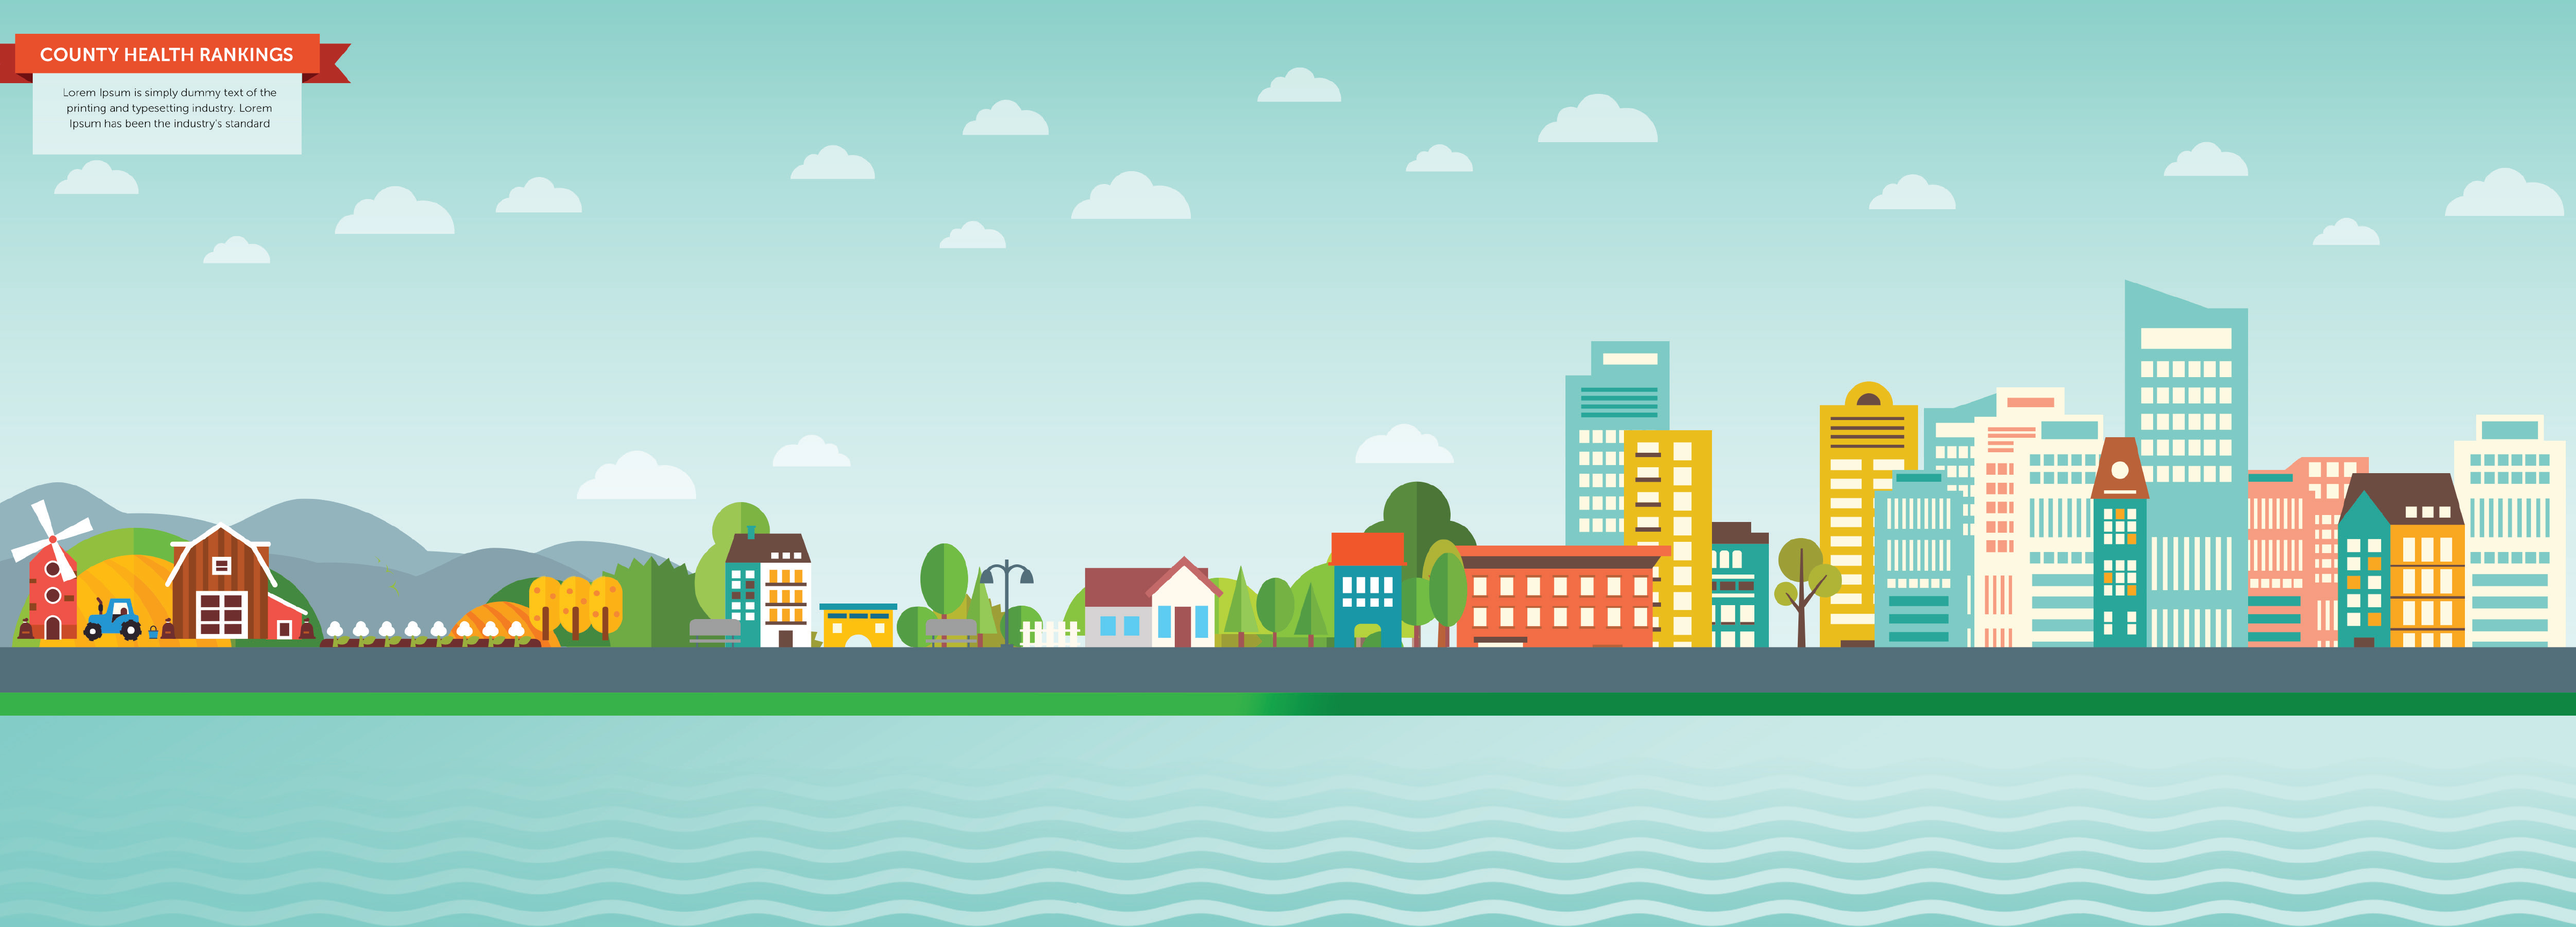
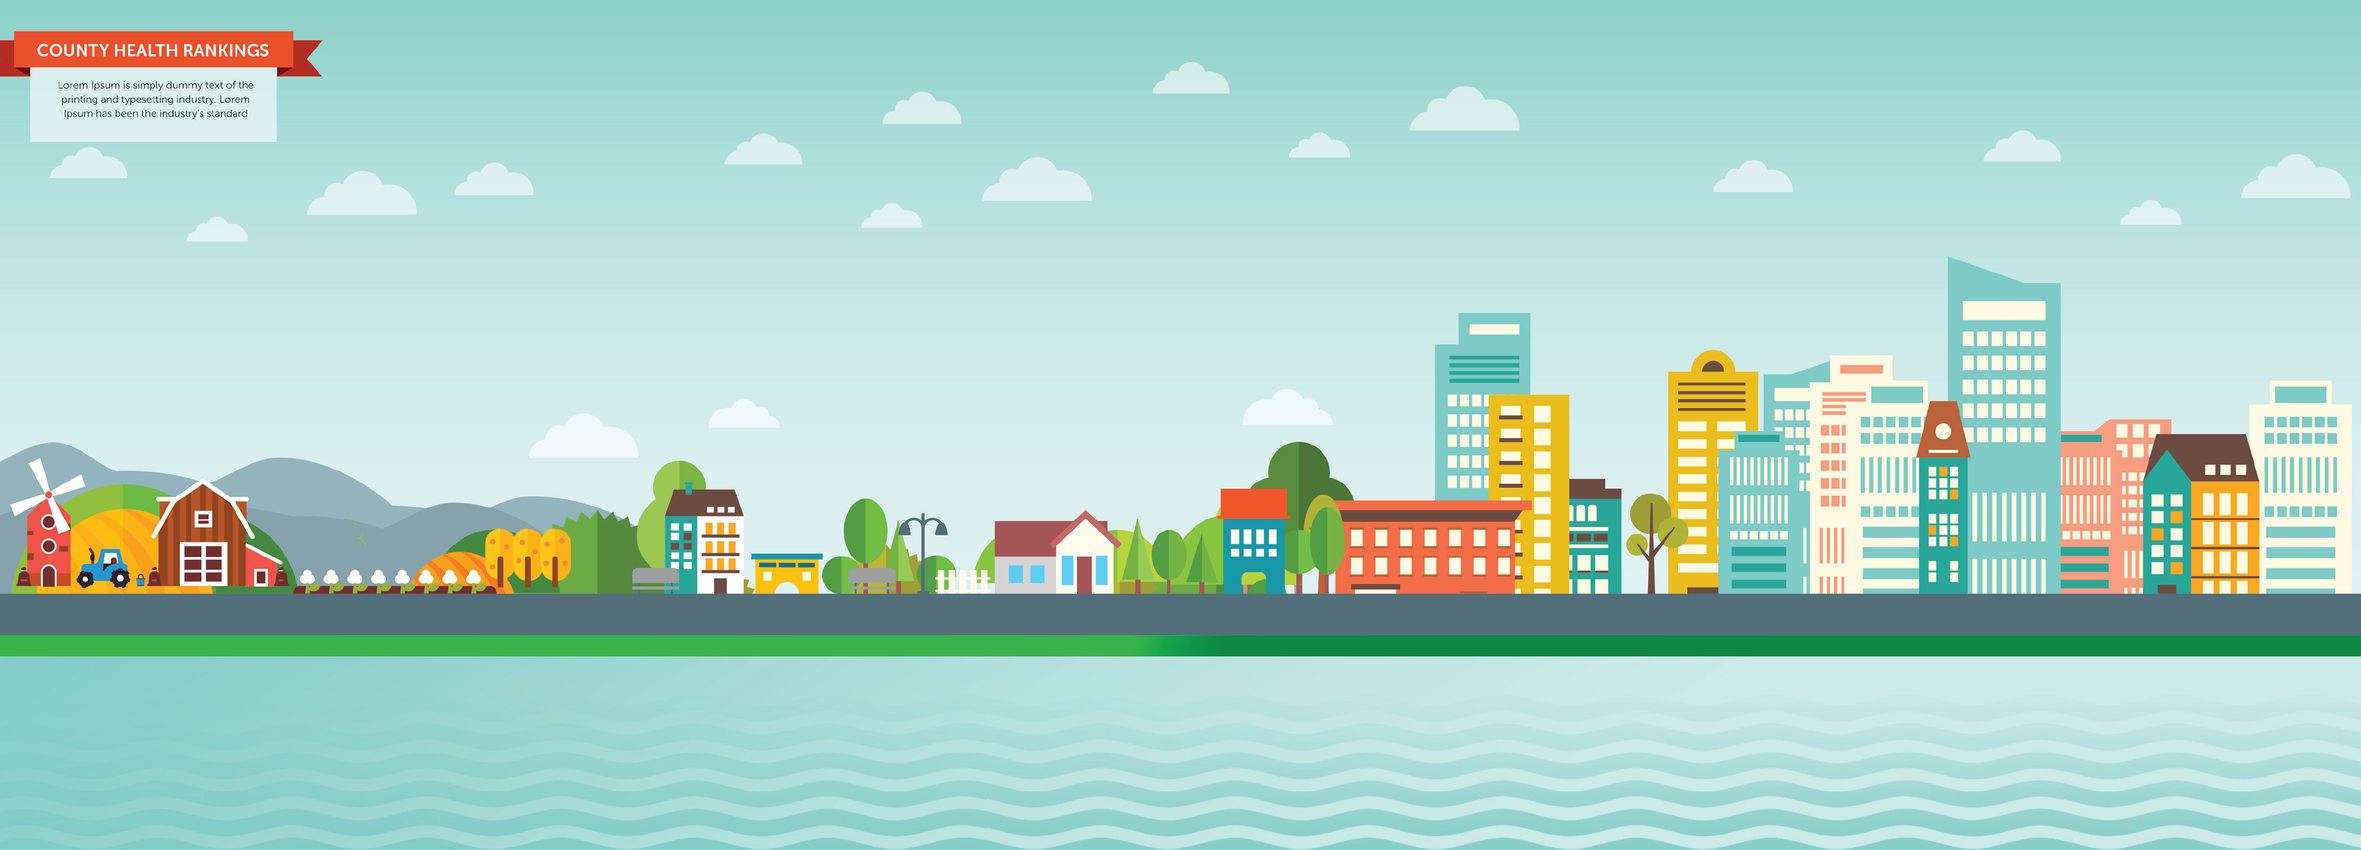
change bg image to jpg

diff --git a/index.html b/index.html
@@ -26,7 +26,7 @@
 	<div class="loader"></div>
 	
 	<div class="mapBack">
-		<img src="img/backgroundFull.png" id="map">
+		<img src="img/backgroundFull.jpg" id="map">
 	</div>
 
 	<div class="nav">
@@ -67,10 +67,12 @@
 			<div class="show">
 				<div id="dataPoint4" class="greenValue showDiv">
 					<img src="img/iconGreen.png" class="dataIcon">
-					<p class="dataValue"></p>
-					<p class="topPerformer">*The best counties in the nation are below 71.3%.</p>
 					<div class="info">
 						<h3>What share of the workforce commutes alone in your community?</h3>
+					</div>
+					<div class="info2">
+						<p class="dataValue"></p>
+						<p class="topPerformer">*The best counties in the nation are below 71.3%.</p>
 						<p class="description">Percentage of the workforce that drive alone to work</p>
 					</div>
 					<ul class="breadCrumbs">
@@ -85,10 +87,12 @@
 
 				<div id="dataPoint5" class="greenValue2 showDiv">
 					<img src="img/iconGreen.png" class="dataIcon">
-					<p class="dataValue"></p>
-					<p class="topPerformer">*The best counties in the nation are below 71.3%.</p>
 					<div class="info">
 						<h3>What share of the workforce commutes a long way alone in your community?</h3>
+					</div>
+					<div class="info2">
+						<p class="dataValue"></p>
+						<p class="topPerformer">*The best counties in the nation are below 71.3%.</p>
 						<p class="description">Percentage of the workforce that drive alone to work with a long commute</p>
 					</div>
 					<ul class="breadCrumbs">
@@ -103,10 +107,12 @@
 				
 				<div id="dataPoint3" class="redValue showDiv">
 					<img src="img/iconRed.png" class="dataIcon">
-					<p class="dataValue"></p>
-					<p class="topPerformer">*The best counties in the nation are below 9.1%.</p>
 					<div class="info">
 						<h3>What share of households in your community has severe problems?</h3>
+					</div>
+					<div class="info2">
+						<p class="dataValue"></p>
+						<p class="topPerformer">*The best counties in the nation are below 9.1%.</p>
 						<p class="description">Percentage of households with at least 1 of 4 housing problems: overcrowding, high housing costs, or lack of kitchen or plumbing facilities</p>
 					</div>
 					<ul class="breadCrumbs">
@@ -121,10 +127,12 @@
 
 				<div id="dataPoint2" class="blueValue showDiv">
 					<img src="img/iconBlue.png" class="dataIcon">
-					<p class="dataValue"></p>
-					<p class="topPerformer">*The best counties in the nation have no water violations.</p>
 					<div class="info">
-						<h3>Does your community have a drinking water violation?</h3>
+						<h3 class="lower">Does your community have a drinking water violation?</h3>
+					</div>
+					<div class="info2">
+						<p class="dataValue"></p>
+						<p class="topPerformer">*The best counties in the nation have no water violations.</p>
 						<p class="description">Indicator of the presence of health-related drinking water violations. Yes indicates the presence of a violation. No indicates no violation.</p>
 					</div>
 					<ul class="breadCrumbs">
@@ -139,10 +147,12 @@
 
 				<div id="dataPoint1" class="yellowValue showDiv">
 					<img src="img/iconYellow.png" class="dataIcon">
-					<p class="dataValue"></p>
-					<p class="topPerformer">*The best counties in the nation are below 9.5.</p>
 					<div class="info">
-						<h3>How dense is air pollution in your community?</h3>
+						<h3 class="lower">How dense is air pollution in your community?</h3>
+					</div>
+					<div class="info2">
+						<p class="dataValue"></p>
+						<p class="topPerformer">*The best counties in the nation are below 9.5.</p>
 						<p class="description">Average daily density of fine particulate matter in micrograms per cubic meter (PM2.5)</p>
 					</div>
 					<ul class="breadCrumbs">
@@ -224,7 +234,7 @@
 					<img class="back_menuModal" src="img/backButton.png">
 					<img class="modalIcon" src="img/iconYellow.png">
 					<div class="zipField">
-						<p>Enter your zipcode to search your county's<br> County Health Rankings</p>
+						<p>To search for your county's Health Rankings<br> enter your zipcode</p>
 						<form>
 							<input type="text" placeholder="Enter Your Zip" id="zipValue"/>
 							<input type="submit" id="zipClick" style="display:none"/>
@@ -252,7 +262,7 @@
 					<img class="back_menuModal" src="img/backButton.png">
 					<img class="modalIcon" src="img/iconRed.png">
 					<div class="zipField">
-						<p>Enter your zipcode to search your county's<br> County Health Rankings</p>
+						<p>To search for your county's Health Rankings<br> enter your zipcode</p>
 						<form>
 							<input type="text" placeholder="zip" id="zipValueRed"/>
 							<input type="submit" id="zipClick" style="display:none"/>
@@ -280,7 +290,7 @@
 					<img class="back_menuModal" src="img/backButton.png">
 					<img class="modalIcon" src="img/iconGreen.png">
 					<div class="zipField">
-						<p>Enter your zipcode to search your county's<br> County Health Rankings</p>
+						<p>To search for your county's Health Rankings<br> enter your zipcode</p>
 						<form>
 							<input type="text" placeholder="zip" id="zipValueGreen"/>
 							<input type="submit" id="zipClick" style="display:none"/>
@@ -288,7 +298,7 @@
 						</form>
 					</div>
 					<div class="contentMain">
-						<p>The transit systems that shape our communities’ built environments affect how we get from place to place, connect people to each other, and to the places where they live, learn, work, and play.</p>
+						<p>The transit systems that shape our communities&#8217; built environments affect how we get from place to place, connect people to each other, and to the places where they live, learn, work, and play.</p>
 						<div class="buttonBay">
 							<button class="dataButton">DATA FOR YOUR COMMUNITY</button>
 							<button class="whatWorks">POLICIES & PROGRAMS</button>
@@ -308,7 +318,7 @@
 					<img class="back_menuModal" src="img/backButton.png">
 					<img class="modalIcon" src="img/iconBlue.png">
 					<div class="zipField">
-						<p>Enter your zipcode to search your county's<br> County Health Rankings</p>
+						<p>To search for your county's Health Rankings<br> enter your zipcode</p>
 						<form>
 							<input type="text" placeholder="zip" id="zipValueBlue"/>
 							<input type="submit" id="zipClick" style="display:none"/>

diff --git a/css/main.css b/css/main.css
@@ -298,11 +298,16 @@ body {
     font-size: 14pt;
     margin-bottom: 15px; }
   .dataPoints .info {
-    height: 140px; }
+    height: 80px; }
     .dataPoints .info h3 {
       font-size: 15pt;
       font-weight: bold;
       max-width: 280px; }
+    .dataPoints .info .lower {
+      position: relative;
+      top: 10px; }
+  .dataPoints .info2 {
+    height: 140px; }
   .dataPoints .yellowValue .dataValue, .dataPoints .yellowValue h3 {
     color: #ffc90a; }
   .dataPoints .redValue .dataValue, .dataPoints .redValue h3 {
@@ -334,7 +339,7 @@ body {
     background-color: #e61d25; }
 
 .dataValue {
-  font-size: 22pt;
+  font-size: 26pt;
   font-weight: bold; }
 
 .show {
@@ -503,6 +508,26 @@ body {
   .bikeScene {
     top: 770px;
     left: 79px; }
+    .bikeScene #yellow {
+      top: -485px; }
+    .bikeScene #red {
+      top: -296px;
+      left: -179px; }
+    .bikeScene #blue {
+      top: 184px; }
+  .bikeScene img {
+    width: 180px; } }
+
+@media only screen and (max-device-width: 768px) {
+  .mapBack {
+    width: 100%;
+    left: 0; }
+  .mapBack #map {
+    width: 4800px;
+    top: -610px; }
+  .bikeScene {
+    top: 540px;
+    left: 46px; }
     .bikeScene #yellow {
       top: -485px; }
     .bikeScene #red {

diff --git a/sass/main.scss b/sass/main.scss
@@ -354,12 +354,19 @@ body{
         margin-bottom: 15px;
     }
     .info{
-        height:140px;
+        height:80px;
         h3{
             font-size: 15pt;
             font-weight: bold;
             max-width:280px;
         }
+        .lower{
+            position: relative;
+            top:10px;
+        }
+    }
+    .info2{
+        height:140px;
     }
     .yellowValue .dataValue, .yellowValue h3{
         color:rgb(255,201,10);
@@ -402,7 +409,7 @@ body{
     }
 }
 .dataValue{
-    font-size: 22pt;
+    font-size: 26pt;
     font-weight: bold;
 }
 .show {
@@ -614,6 +621,28 @@ body{
     
 }
 
+@media only screen and (max-device-width: 768px) {
+    .mapBack {
+        width: 100%;
+        left:0;
+    }
+    .mapBack #map {
+        width: 4800px; 
+        top: -610px;
+    }
+    .bikeScene {
+        top: 540px;
+        left: 46px;
+        #yellow {top: -485px;}
+        #red {
+            top: -296px;
+            left: -179px;
+        }
+        #blue {top: 184px;}
+    }
+    .bikeScene img {width: 180px;}
+    
+}
 
 //Cell Phones
 
